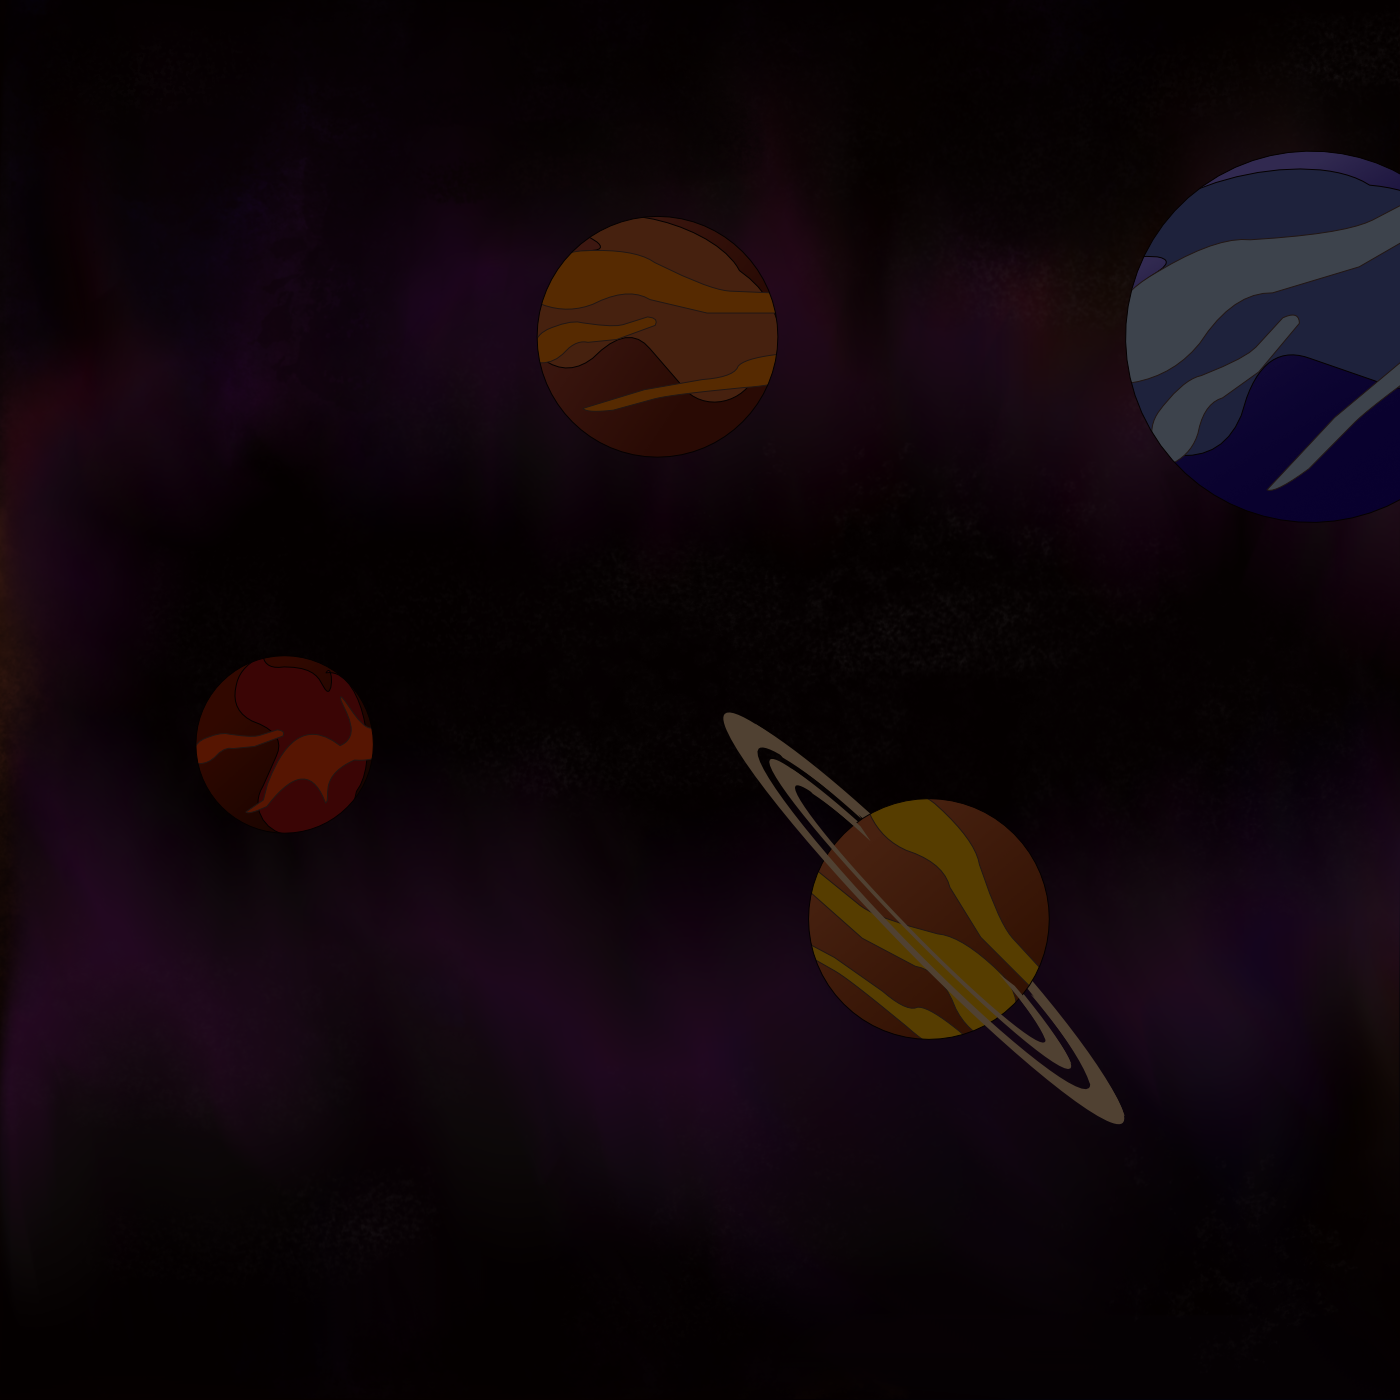
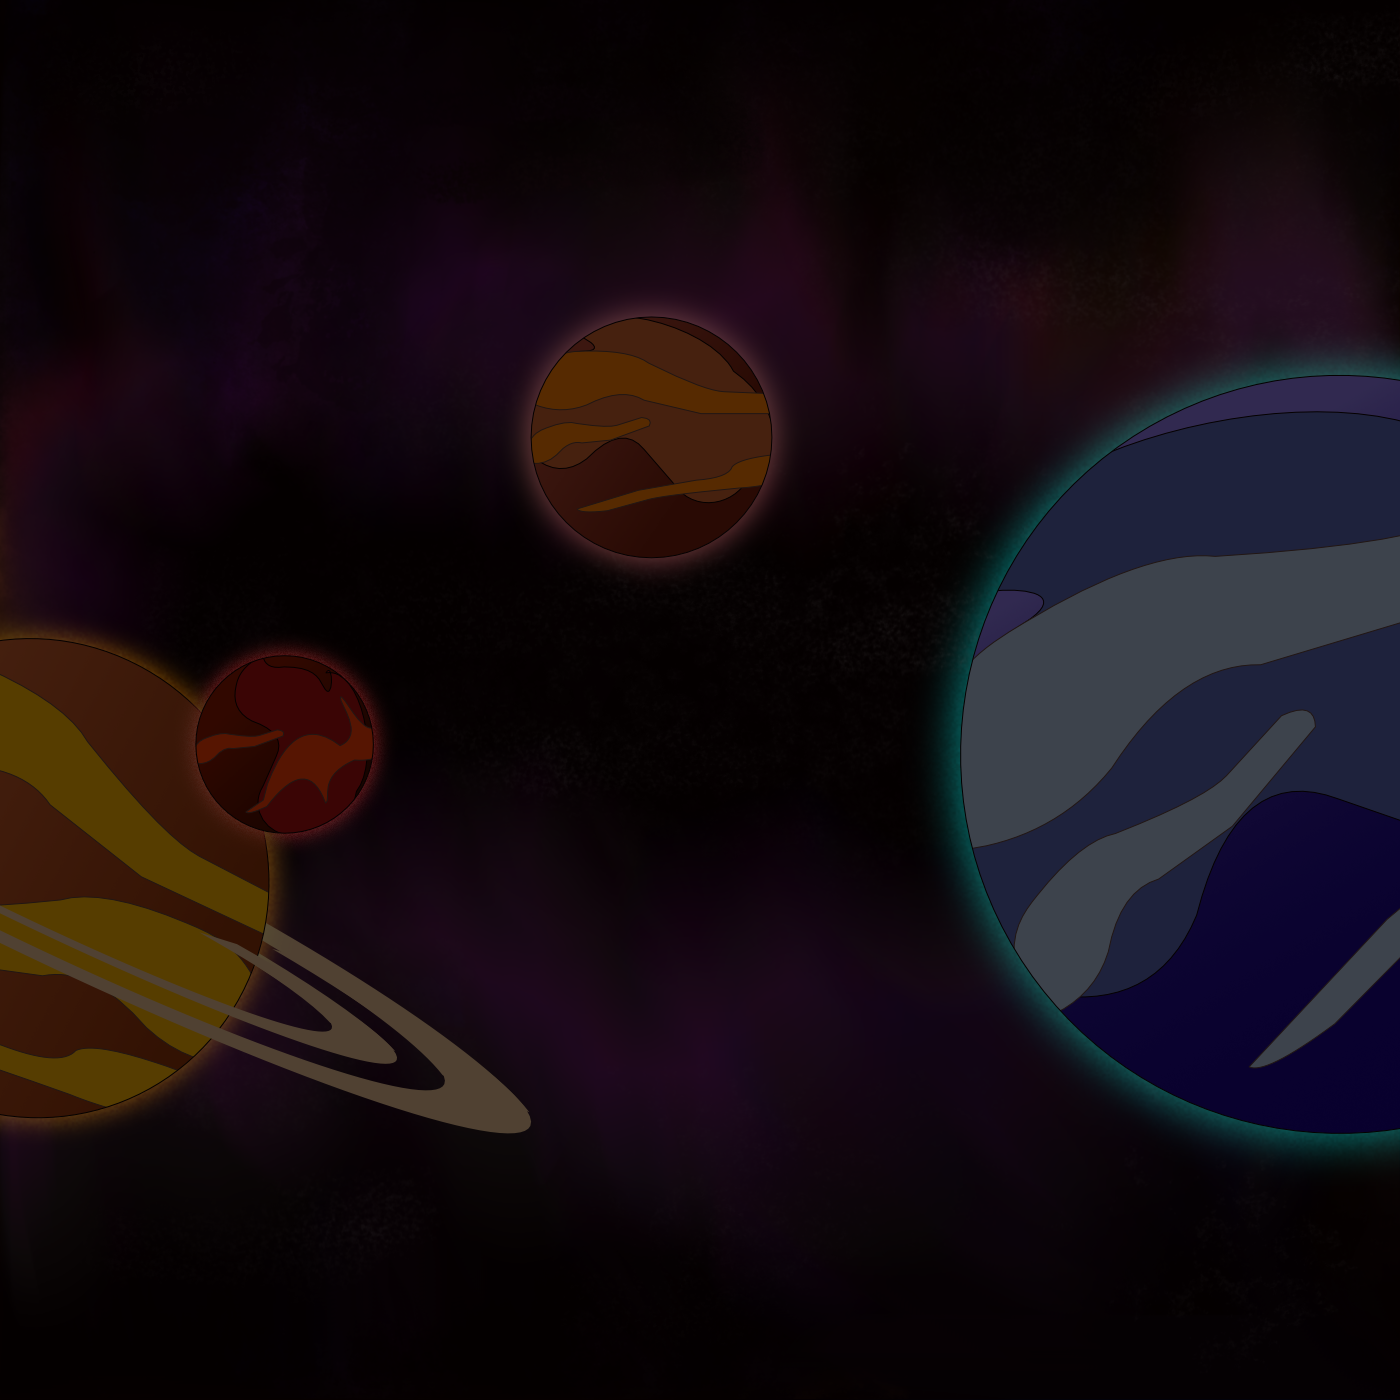
updated main scene to include space level

Changed region(s): [[0.5221, 0.0921, 1.0, 0.8293], [0.0, 0.43, 0.3993, 0.8293], [0.3686, 0.1536, 0.5836, 0.43]]

diff --git a/components/gameComponents/scenes/SpaceScene.tsx b/components/gameComponents/scenes/SpaceScene.tsx
@@ -1,31 +1,41 @@
 import "phaser";
-import { PlayerController } from "../playerController";
 import { Coins, CoinType } from "../elements/Coin";
 import { SpaceGas } from "../elements/SpaceGas";
-import { sharedInstance as events } from "../EventCenter";
+import { PlayerController } from "../playerController";
 import SocketClient from "../SocketClient";
+import { sharedInstance as events } from "../EventCenter";
 
 type gameState = "waiting" | "running" | "end";
 
-export default class SpaceTestScene extends Phaser.Scene {
+export default class SpaceScene extends Phaser.Scene {
   cursors!: Phaser.Types.Input.Keyboard.CursorKeys;
   player!: PlayerController;
   otherPlayers: Map<string, Phaser.GameObjects.Sprite> = new Map();
   music!: Phaser.Sound.BaseSound;
   bg_1!: Phaser.GameObjects.TileSprite;
+  coins!: Coins;
+  socketClient!: SocketClient;
   start!: { x: number; y: number };
   loading: boolean = true;
   timer!: Phaser.Time.TimerEvent;
-  coins!: Coins;
-  socketClient!: SocketClient;
   gameId!: string;
   level!: string;
   gameState: gameState = "waiting";
   emitMessages: { key: string; data: any }[] = [];
   dangerZone!: SpaceGas;
 
+  loadFromSocket() {
+    this.socketClient = new SocketClient(this);
+  }
+
   init() {
-    this.level = "spaceTest";
+    this.level = "space";
+    // Load UI
+    this.scene.launch("ui");
+    this.scene.launch("dialog");
+    // load up socketIO
+    this.loadFromSocket();
+    // init the keyboard inputs
     this.cursors = this.input.keyboard.createCursorKeys();
   }
 
@@ -62,13 +72,14 @@ export default class SpaceTestScene extends Phaser.Scene {
     this.load.image("bg_1", "/assets/space_level/space_bg.png");
 
     // load audio
-    this.load.audio("spaceMusic", "/assets/castle_level/castleMusic.mp3");
+    this.load.audio("castleMusic", "/assets/castle_level/castleMusic.mp3");
     this.load.audio("acidSplash", "/assets/castle_level/acidSplash.ogg");
     this.load.audio("coinPickup", "/assets/coinPickup.ogg");
     this.load.audio("bell", "/assets/bell.mp3");
   }
 
   create() {
+    // create coins class
     this.coins = new Coins(this);
     // create the tile map instance
     const map = this.make.tilemap({ key: "space_level" });
@@ -79,10 +90,11 @@ export default class SpaceTestScene extends Phaser.Scene {
 
     map.createLayer("ground2", tileset);
     map.createLayer("ground3", tileset).setDepth(-1);
+
     // set collisions based on custom value on the tilesheet data
     ground.setCollisionByProperty({ collides: true });
 
-    // testing parallax
+    // parallax
     this.bg_1 = this.add.tileSprite(0, 0, 0, 0, "bg_1");
     this.bg_1.setOrigin(0, 0);
     this.bg_1.setScrollFactor(0);
@@ -161,6 +173,13 @@ export default class SpaceTestScene extends Phaser.Scene {
           const finish = this.sound.get("bell");
           finish.play();
           this.player.sprite.anims.play("idle");
+          this.socketClient.counter = 10;
+          this.socketClient.socket.emit("gameUpdate", {
+            level: this.level,
+            gameId: this.gameId,
+            state: "end",
+            winner: true,
+          });
         }
         if (other.position.y > polly.position.y) {
           this.player.isTouchingGround = true;
@@ -222,14 +241,23 @@ export default class SpaceTestScene extends Phaser.Scene {
 
     events.on("dead", () => {
       console.log("player died");
+      this.socketClient.socket.emit("dead");
       // get players and sort based on highest point
+      this.otherPlayers.delete(this.socketClient.socket.id);
       const ordered = Array.from(this.otherPlayers.values()).sort(
         (a, b) => b.y - a.y
       );
 
-      if (ordered.length === 0) {
+      if (ordered.length === 0 && this.gameState === "running") {
+        // emit end game as all players dead
         console.log("end game request");
-        window.location.reload();
+        this.socketClient.counter = 10;
+        this.socketClient.socket.emit("gameUpdate", {
+          level: this.level,
+          gameId: this.gameId,
+          state: "end",
+          winner: false,
+        });
         return;
       }
       // follow highest player
@@ -250,12 +278,14 @@ export default class SpaceTestScene extends Phaser.Scene {
         }
       }
     }
+    if (this.loading || this.socketClient.counter >= 0) {
+      return;
+    }
     if (this.gameState !== "end") {
       // run through state for player controller
       this.player.stateMachine.step();
-      // update danger zone
-      this.dangerZone?.update();
-      // update parallax
+      // update acid
+      this.dangerZone.update();
       this.bg_1.tilePositionY = this.cameras.main.scrollY * 0.3;
     }
   }

diff --git a/server.ts b/server.ts
@@ -256,8 +256,7 @@ nextApp.prepare().then(() => {
       try {
         if (roomSet) {
           gameRooms.delete(roomSet);
-          // roomSet = roomSet === "castle" ? "space" : "castle";
-          roomSet = "space";
+          roomSet = roomSet === "castle" ? "space" : "castle";
         }
         const leaderBoardData = Array.from(leaderboad).sort(
           ([, a], [, b]) => b.count - a.count
@@ -518,8 +517,7 @@ nextApp.prepare().then(() => {
     if (roomSet) {
       return res.json({ level: roomSet });
     }
-    // roomSet = lastRoom === "castle" ? "space" : "castle";
-    roomSet = "space";
+    roomSet = lastRoom === "castle" ? "space" : "castle";
     lastRoom = roomSet;
     res.json({ level: roomSet });
   });

diff --git a/components/gameComponents/GameManager.tsx b/components/gameComponents/GameManager.tsx
@@ -2,6 +2,7 @@ import { useEffect } from "react";
 import "phaser";
 import UI from "./scenes/UIScene";
 import CastleScene from "./scenes/CastleScene";
+import SpaceScene from "./scenes/SpaceScene";
 import Dialog from "./scenes/DialogScene";
 
 let game: Phaser.Game;
@@ -56,9 +57,10 @@ const GameManager = () => {
 
     const availableLevels = {
       castle: CastleScene,
+      space: SpaceScene,
     };
 
-    const getLevel = async (): Promise<"castle"> => {
+    const getLevel = async (): Promise<"castle" | "space"> => {
       try {
         const res = await fetch("/api/currentLevel");
         const data = await res.json();

diff --git a/components/gameComponents/testGameManager.tsx b/components/gameComponents/testGameManager.tsx
@@ -58,15 +58,11 @@ const GameManager = () => {
       space: SpaceTestScene,
     };
 
-    const getLevel = async (): Promise<"castle" | "space"> => {
-      try {
-        const res = await fetch("/api/currentLevel");
-        const data = await res.json();
-        return data.level;
-      } catch (err) {
-        console.log(err);
-        throw err;
-      }
+    type LevelNames = "castle" | "space";
+
+    const getLevel = (): LevelNames => {
+      const levels: LevelNames[] = ["castle", "space"];
+      return levels[Math.floor(Math.random() * levels.length)];
     };
 
     const level = await getLevel();
